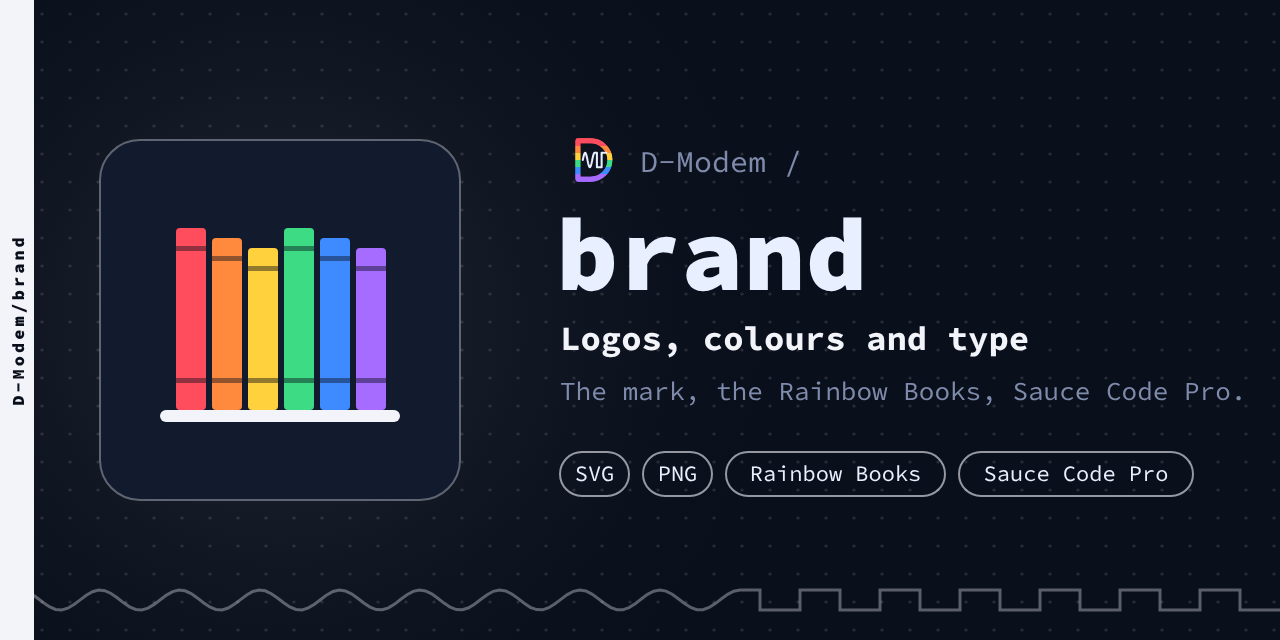
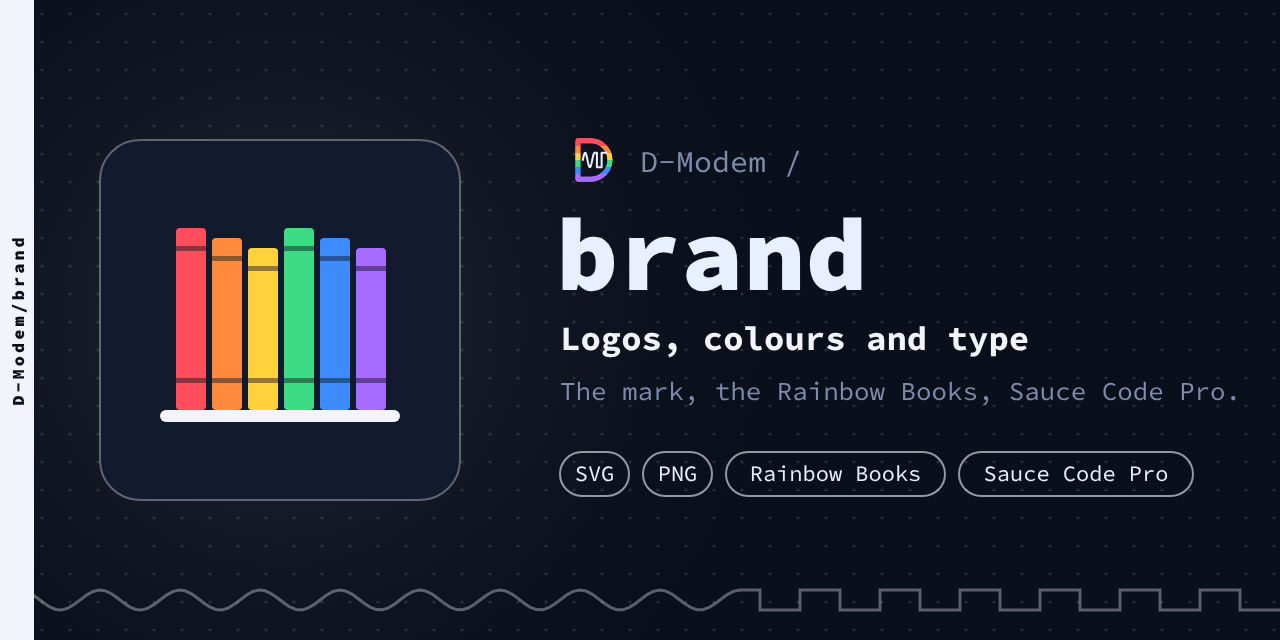
Social previews: shrink long taglines to fit
Claude-Session: https://claude.ai/code/session_01B82eRR7XmhWoFbzJFFFqde

Changed region(s): [[0.5625, 0.5938, 0.9688, 0.625], [0.4688, 0.5938, 0.5312, 0.625]]

diff --git a/tools/gen.py b/tools/gen.py
@@ -208,6 +208,8 @@ def social(name, r):
                      f'<text x="{x + w / 2}" y="481" text-anchor="middle" font-family="{FONT}" font-size="22" fill="{INK}">{t}</text>')
         x += w + 14
     size = 104 if len(name) <= 6 else 92
+    # long lines shrink to fit the 680px to the right edge (monospace: 0.6em per character)
+    tsz, ssz = min(34, 680 / (0.6 * len(r["tag"]))), min(26, 680 / (0.6 * len(r["sub"])))
     return f'''<svg xmlns="http://www.w3.org/2000/svg" width="1280" height="640" viewBox="0 0 1280 640">
 {defs(c)}
 <rect width="1280" height="640" fill="{BG}"/>
@@ -218,8 +220,8 @@ def social(name, r):
 <g transform="translate(560 128)">{mark(64, bg=False)}</g>
 <text x="640" y="172" font-family="{FONT}" font-size="30" fill="{DIM}">D-Modem /</text>
 <text x="556" y="290" font-family="{FONT}" font-weight="800" font-size="{size}" fill="{INK}">{name}</text>
-<text x="560" y="350" font-family="{FONT}" font-weight="700" font-size="34" fill="{c}">{r["tag"]}</text>
-<text x="560" y="400" font-family="{FONT}" font-size="26" fill="{DIM}">{r["sub"]}</text>
+<text x="560" y="350" font-family="{FONT}" font-weight="700" font-size="{tsz:.1f}" fill="{c}">{r["tag"]}</text>
+<text x="560" y="400" font-family="{FONT}" font-size="{ssz:.1f}" fill="{DIM}">{r["sub"]}</text>
 {"".join(chips)}
 <rect x="0" y="0" width="34" height="640" fill="{c}"/>
 <text transform="translate(24 320) rotate(-90)" text-anchor="middle" font-family="{FONT}" font-weight="800" font-size="17" letter-spacing="3" fill="{BG}">D-Modem/{name}</text>
